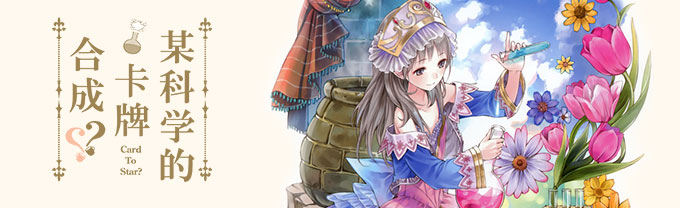
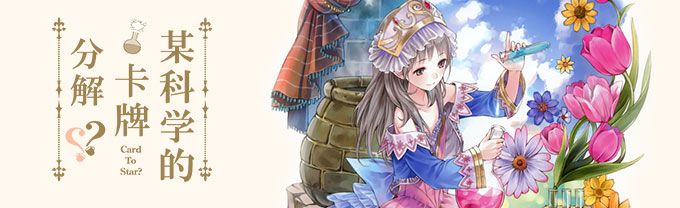
1.查看卡牌的时候会显示头像了。  2.【卡牌合成】更名为【卡牌分解】。  3.在动态中增加了点击直达【星星商店】、【卡牌分解】的功能。  4.在最新动态中能查看到挑战了哪位大佬。

Changed region(s): [[0.0926, 0.1731, 0.1544, 0.5481]]

diff --git a/card/card.js b/card/card.js
@@ -149,7 +149,7 @@ $(document).ready(function(e) {
 		var wmEmail_ = $(this).find('.wm_card_get_list_avatar_pic').attr('data-md5');
 		$('#wm_tiaozhan_btn').attr('data-md5',wmEmail_);
 		wmsearchCard(wmEmail_,false,true);
-		$('html, body').animate({scrollTop: $('#wmGetCard').offset().top+210}, 300);
+		$('html, body').animate({scrollTop: $('#wmGetCard').offset().top+200}, 300);
 	});
 	//幻灯片
 	var mySwiper = new Swiper ('.wm_banner_body .swiper-container', {
@@ -432,7 +432,7 @@ $(document).ready(function(e) {
 			openCardMixWindow();
 		}
 	});
-	//合成列表页面生成
+	//分解列表页面生成
 	var wmcardMixAllInfoArr = [];
 	var wmcardDatabase = null;
 	var wmcardMixNowLength = 0;//已经展示了多少
@@ -461,7 +461,7 @@ $(document).ready(function(e) {
 			wmCardMixCardDatabase(showModWindow);
 		}
 	};
-	//显示合成卡牌
+	//显示分解卡牌
 	function wmCardMixListCardShow(){
 		var wmpageLength = 0;
 		for(wmcardMixNowLength;wmcardMixNowLength<wmcardMixAllInfoArr.length;wmcardMixNowLength++){
@@ -507,10 +507,10 @@ $(document).ready(function(e) {
 					wmcardMixWindowIndex = layer.open({
 						type: 1,
 						maxWidth:'100%',
-						title:'卡牌合成',
+						title:'卡牌分解',
 						zIndex:1002,
 						content:$('#wmCardMixListBody'),
-						btn: ['合成','全部合成','关闭'], //按钮
+						btn: ['分解','全部分解','关闭'], //按钮
 						btn1 :function(index){
 							var wmMixcardSendCard = [];
 							var wmMixcardSendCardEl = $('.wm_mix_card_img_item.card_selected');
@@ -519,7 +519,7 @@ $(document).ready(function(e) {
 								wmMixcardSendCard.push(mixcardID);
 							}
 							if(wmMixcardSendCard.length<=0){
-								layer.alert('请选择要合成的卡牌！');
+								layer.alert('请选择要分解的卡牌！');
 							}else{
 								wmMixcardSendData = wmCalcMixcard(wmMixcardSendCard);
 								wmCheckMixCard(wmMixcardSendData[2],wmMixcardSendData[0],wmMixcardSendData[1],false);
@@ -542,21 +542,21 @@ $(document).ready(function(e) {
 			dataType: 'json'
 		});
 	}
-	//二次确认卡牌是否合成
+	//二次确认卡牌是否分解
 	function wmCheckMixCard(star,cardID,cardCount,isAll){
 		var wmMixText = '';
 		if(isAll){
 			wmMixText = '全部';
 		}
-		layer.confirm('确定要合成'+wmMixText+'卡牌吗？合成后所选卡牌将会减少相应数量，并预计会获得'+star+'颗星星。', {
-			btn: ['合成','取消'] //按钮
+		layer.confirm('确定要分解'+wmMixText+'卡牌吗？分解后所选卡牌将会减少相应数量，并预计会获得'+star+'颗星星。', {
+			btn: ['分解','取消'] //按钮
 		  }, function(index){
 			wmMixCardPassword(cardID,cardCount);
 			layer.close(index);
 		  }
 		);
 	}
-	//弹出合成卡牌密码确认
+	//弹出分解卡牌密码确认
 	function wmMixCardPassword(cardID,cardCount){
 		$('#wmGetPassword').attr('data-email',$('#wmCardMixInput').val());
 		var wmSendCardID = cardID.join(',');
@@ -592,7 +592,7 @@ $(document).ready(function(e) {
 						success: function(result){
 							$('#wmCardLoading').stop(true, false).fadeOut(100);
 							if(result.code=="202"){
-								layer.confirm('成功兑换了'+result.useCardNumbe+'张卡牌，获得了'+result.addStar+'颗星星！您现在剩余星星数量有'+result.starCount+'颗了！', {
+								layer.confirm('成功分解了'+result.useCardNumbe+'张卡牌，获得了'+result.addStar+'颗星星！您现在剩余星星数量有'+result.starCount+'颗了！', {
 									btn: ['确定']
 									,btn1: function(index){
 										wmMixSearchCard(index,false);
@@ -626,7 +626,7 @@ $(document).ready(function(e) {
 			}
 		);
 	};
-	//计算提交的合成卡牌
+	//计算提交的分解卡牌
 	function wmCalcMixcard(wmMixcardSendCard){
 		console.log(wmMixcardSendCard);
 		var wmGetStar = 0;
@@ -654,7 +654,7 @@ $(document).ready(function(e) {
 		wmMixcardSendData = [wmMixcardSendDataCardID,wmMixcardSendDataCardCount,wmGetStar]
 		return wmMixcardSendData
 	};
-	//星星合成用到的卡牌查询
+	//星星分解用到的卡牌查询
 	function wmMixSearchCard(alertWindowIndex,showModWindow){
 		var wmMixCardemail = $('#wmCardMixInput').val();
 		var reg = new RegExp("^[a-z0-9]+([._\\-]*[a-z0-9])*@([a-z0-9]+[-a-z0-9]*[a-z0-9]+.){1,63}[a-z0-9]+$");
@@ -689,7 +689,7 @@ $(document).ready(function(e) {
 			});
 		}
 	}
-	// 星星合成
+	// 星星分解
 	function openCardMixWindow(){
 		layer.open({
 			type: 1,
@@ -721,20 +721,20 @@ $(document).ready(function(e) {
 			success: function(result){
 				console.log(result);
 				if(result.code=="202"){
-					$('#wm_mylist_title').text('您的当前信息');
+					$('#wm_mylist_title').html('<img class="wm_title_info_avatar_pic" src="https://cdn.v2ex.com/gravatar/'+emailmd5_+'?s=100&amp;d=mm&amp;r=g&amp;d=robohash" width="45" height="45"><br />您的当前信息');
 					if(addrsearch){
 						var usernick = GetQueryString('usernick');
 						if(usernick){
 							usernick = urldecode(usernick);
 							$('.wm_tiaozhan_body').show();
-							$('#wm_mylist_title').text(usernick + '的当前信息');
+							$('#wm_mylist_title').html('<img class="wm_title_info_avatar_pic" src="https://cdn.v2ex.com/gravatar/'+emailmd5_+'?s=100&amp;d=mm&amp;r=g&amp;d=robohash" width="45" height="45"><br />' + usernick + '的当前信息');
 						}else{
 							$('.wm_tiaozhan_body').hide();
-							$('#wm_mylist_title').text('您的当前信息');
+							$('#wm_mylist_title').html('<img class="wm_title_info_avatar_pic" src="https://cdn.v2ex.com/gravatar/'+emailmd5_+'?s=100&amp;d=mm&amp;r=g&amp;d=robohash" width="45" height="45"><br />您的当前信息');
 						}
 					}else if(newListSearch){
 						$('.wm_tiaozhan_body').show();
-						$('#wm_mylist_title').text('TA的当前信息');
+						$('#wm_mylist_title').html('<img class="wm_title_info_avatar_pic" src="https://cdn.v2ex.com/gravatar/'+emailmd5_+'?s=100&amp;d=mm&amp;r=g&amp;d=robohash" width="45" height="45"><br />TA的当前信息');
 					}else{
 						$('.wm_tiaozhan_body').hide();
 					}
@@ -896,15 +896,20 @@ $(document).ready(function(e) {
 						wmSixStarCardShake = ' wm_six_star_card_shake'
 					}
 				}
-				listHtml = '<div class="wm_card_get_list_item"><div class="wm_card_get_list_avatar"><img class="wm_card_get_list_avatar_pic" src="https://cdn.v2ex.com/gravatar/'+wmNewListInfoArr[i].mailMD5+'?s=100&d=mm&r=g&d=robohash" width="45" height="45" title="查看TA的卡牌" data-md5="'+wmNewListInfoArr[i].mailMD5+'" /></div><div class="wm_card_get_list_comment">我使用了'+wmNewListInfoArr[i].useStar+'颗星星抽中了出自作品《'+wmNewListInfoArr[i].cardInfo.title+'》的'+wmNewListInfoArr[i].cardInfo.star+'星卡<a href="'+wmCardImgPath+wmNewListInfoArr[i].cardID+'.jpg" class="wm_card_get_list_card_link'+wmSixStarCardShake+'" target="_blank">'+wmNewListInfoArr[i].cardInfo.name+'</a>。'+getText+'</div></div>'
+				listHtml = '<div class="wm_card_get_list_item"><div class="wm_card_get_list_avatar"><img class="wm_card_get_list_avatar_pic" src="https://cdn.v2ex.com/gravatar/'+wmNewListInfoArr[i].mailMD5+'?s=100&d=mm&r=g&d=robohash" width="45" height="45" title="查看TA的卡牌" data-md5="'+wmNewListInfoArr[i].mailMD5+'" /></div><div class="wm_card_get_list_comment">我在<a href="javascript:;" class="wm_getlist_link wm_goto_starshop">星星商店</a>使用了'+wmNewListInfoArr[i].useStar+'颗星星抽中了出自作品《'+wmNewListInfoArr[i].cardInfo.title+'》的'+wmNewListInfoArr[i].cardInfo.star+'星卡<a href="'+wmCardImgPath+wmNewListInfoArr[i].cardID+'.jpg" class="wm_card_get_list_card_link'+wmSixStarCardShake+'" target="_blank">'+wmNewListInfoArr[i].cardInfo.name+'</a>。'+getText+'</div></div>'
 			}else if(wmNewListInfoArr[i].massageType=='battle'){
+				// 兼容老版本是否有对方的邮箱MD5
+				var wmDalaoHtml = '大佬';
+				if(wmNewListInfoArr[i].EMmailMD5 !== undefined){
+					wmDalaoHtml = '<a href="javascript:;" title="查看TA的卡牌" data-md5="'+wmNewListInfoArr[i].EMmailMD5+'" class="wm_getlist_link wm_goto_dalao_info">大佬</a>';
+				}
 				if(wmNewListInfoArr[i].Win == 0){
-					listHtml = '<div class="wm_card_get_list_item"><div class="wm_card_get_list_avatar"><img class="wm_card_get_list_avatar_pic" src="https://cdn.v2ex.com/gravatar/'+wmNewListInfoArr[i].mailMD5+'?s=100&d=mm&r=g&d=robohash" width="45" height="45" title="查看TA的卡牌" data-md5="'+wmNewListInfoArr[i].mailMD5+'" /></div><div class="wm_card_get_list_comment">我成功挑战了一名大佬，并从中获得了'+wmNewListInfoArr[i].MyGetScore+'点竞技点与'+wmNewListInfoArr[i].GETEXP+'点经验值。</div></div>';
+					listHtml = '<div class="wm_card_get_list_item"><div class="wm_card_get_list_avatar"><img class="wm_card_get_list_avatar_pic" src="https://cdn.v2ex.com/gravatar/'+wmNewListInfoArr[i].mailMD5+'?s=100&d=mm&r=g&d=robohash" width="45" height="45" title="查看TA的卡牌" data-md5="'+wmNewListInfoArr[i].mailMD5+'" /></div><div class="wm_card_get_list_comment">我成功挑战了一名'+wmDalaoHtml+'，并从中获得了'+wmNewListInfoArr[i].MyGetScore+'点竞技点与'+wmNewListInfoArr[i].GETEXP+'点经验值。抱歉，竞技点我收走啦！</div></div>';
 				}else if(wmNewListInfoArr[i].Win == 1){
-					listHtml = '<div class="wm_card_get_list_item"><div class="wm_card_get_list_avatar"><img class="wm_card_get_list_avatar_pic" src="https://cdn.v2ex.com/gravatar/'+wmNewListInfoArr[i].mailMD5+'?s=100&d=mm&r=g&d=robohash" width="45" height="45" title="查看TA的卡牌" data-md5="'+wmNewListInfoArr[i].mailMD5+'" /></div><div class="wm_card_get_list_comment">我在对战中败给了一名大佬，失去了'+Math.abs(wmNewListInfoArr[i].MyGetScore)+'点竞技点，获得了'+wmNewListInfoArr[i].GETEXP+'点经验值。</div></div>';
+					listHtml = '<div class="wm_card_get_list_item"><div class="wm_card_get_list_avatar"><img class="wm_card_get_list_avatar_pic" src="https://cdn.v2ex.com/gravatar/'+wmNewListInfoArr[i].mailMD5+'?s=100&d=mm&r=g&d=robohash" width="45" height="45" title="查看TA的卡牌" data-md5="'+wmNewListInfoArr[i].mailMD5+'" /></div><div class="wm_card_get_list_comment">我在对战中败给了一名'+wmDalaoHtml+'，失去了'+Math.abs(wmNewListInfoArr[i].MyGetScore)+'点竞技点，获得了'+wmNewListInfoArr[i].GETEXP+'点经验值。我的竞技点……</div></div>';
 				}
 			}else if(wmNewListInfoArr[i].massageType=='mixcard'){
-				listHtml = '<div class="wm_card_get_list_item"><div class="wm_card_get_list_avatar"><img class="wm_card_get_list_avatar_pic" src="https://cdn.v2ex.com/gravatar/'+wmNewListInfoArr[i].mailMD5+'?s=100&d=mm&r=g&d=robohash" width="45" height="45" title="查看TA的卡牌" data-md5="'+wmNewListInfoArr[i].mailMD5+'" /></div><div class="wm_card_get_list_comment">我通过卡牌合成，用'+wmNewListInfoArr[i].useCardNumbe+'张卡牌搓出了'+wmNewListInfoArr[i].addStar+'颗星星！虽然有点可惜，但是我想这些星星能让我得到更好的卡牌！</div></div>';
+				listHtml = '<div class="wm_card_get_list_item"><div class="wm_card_get_list_avatar"><img class="wm_card_get_list_avatar_pic" src="https://cdn.v2ex.com/gravatar/'+wmNewListInfoArr[i].mailMD5+'?s=100&d=mm&r=g&d=robohash" width="45" height="45" title="查看TA的卡牌" data-md5="'+wmNewListInfoArr[i].mailMD5+'" /></div><div class="wm_card_get_list_comment">我通过<a href="javascript:;" class="wm_getlist_link wm_goto_mixcard">卡牌分解</a>，用'+wmNewListInfoArr[i].useCardNumbe+'张卡牌分解出了'+wmNewListInfoArr[i].addStar+'颗星星！虽然有点可惜，但是我相信这些星星能让我得到更好的卡牌！</div></div>';
 			}
 			if(listHtml!=''){
 				$('#wmCardGetList').append(listHtml);
@@ -920,6 +925,21 @@ $(document).ready(function(e) {
 		}
 		$('#wm_get_list_more_btn').removeAttr('disabled');
 	}
+	// 点击去卡牌分解动态
+	$('#wmCardGetList').on('click','.wm_goto_mixcard',function(){
+		$('#wmBannerBody .swiper-slide[data-type="cardMix"]').eq(0).trigger('click');
+	});
+	// 点击星星商店动态
+	$('#wmCardGetList').on('click','.wm_goto_starshop',function(){
+		$('#wmBannerBody .swiper-slide[data-type="starShop"]').eq(0).trigger('click');
+	});
+	// 点击动态查看大佬
+	$('#wmCardGetList').on('click','.wm_goto_dalao_info',function(){
+		var addrmd5 = $(this).attr('data-md5');
+		$('#wm_tiaozhan_btn').attr('data-md5',addrmd5);
+		wmsearchCard(addrmd5,false,true);
+		$('html, body').animate({scrollTop: $('#wmGetCard').offset().top+200}, 300);
+	});
 	//获取最新抽卡动态
 	function getNewCardList(){
 		var getTimeStamp = new Date().getTime();
@@ -997,7 +1017,7 @@ $(document).ready(function(e) {
 		var addrmd5 = $(this).attr('data-md5');
 		$('#wm_tiaozhan_btn').attr('data-md5',addrmd5);
 		wmsearchCard(addrmd5,false,true);
-		$('html, body').animate({scrollTop: $('#wmGetCard').offset().top+210}, 300);
+		$('html, body').animate({scrollTop: $('#wmGetCard').offset().top+200}, 300);
 	})
 	//获取最新抽卡动态
 	getNewCardList();

diff --git a/card/card.css b/card/card.css
@@ -294,7 +294,7 @@ input.wm_card_email:-webkit-autofill {
 	background: #f8f8f8;
 	cursor: pointer;
 }
-.wm_card_get_list_body a.wm_card_get_list_card_link{
+.wm_card_get_list_body a.wm_card_get_list_card_link,.wm_card_get_list_body a.wm_getlist_link{
 	color: #ff5364;
 	padding: 0 3px;
 }
@@ -571,7 +571,7 @@ input.wm_card_email:-webkit-autofill {
 		width: 6px;
 		height: 6px;
 	}
-	/* 卡牌合成 */
+	/* 卡牌分解 */
 	.wm_card_cardmix_cardlist_body{
 		text-align: center;
 		display: none;
@@ -746,6 +746,14 @@ input.wm_card_email:-webkit-autofill {
 	.wm_card_rank_point{
 		padding-right: 20px;
     font-size: 14px;
+	}
+	/* 详情头像 */
+	.wm_title_info_avatar_pic{
+		background-color: #f8f8f8;
+    border-radius: 5px;
+		margin-bottom: 5px;
+		width: 45px;
+		height: 45px;
 	}
 	@media only screen and (max-width: 650px) {
 		.wm_card_rank_box{

diff --git a/wm_card.php b/wm_card.php
@@ -9,10 +9,10 @@ Author URL: http://wikimoe.com
 */
 !defined('EMLOG_ROOT') && exit('access deined!');
 function wm_card_loghook() {
-	$wm_card_jsfile = BLOG_URL.'content/plugins/wm_card/card/card.js?ver=0.42';
+	$wm_card_jsfile = BLOG_URL.'content/plugins/wm_card/card/card.js?ver=0.43';
 	$wm_card_layerjsfile = BLOG_URL.'content/plugins/wm_card/layer/layer.js';
 	$wm_card_layercssfile = BLOG_URL.'content/plugins/wm_card/layer/theme/default/layer.css';
-	$wm_card_cssfile = BLOG_URL.'content/plugins/wm_card/card/card.css?ver=0.42';
+	$wm_card_cssfile = BLOG_URL.'content/plugins/wm_card/card/card.css?ver=0.43';
 	$wm_card_pluginpath = BLOG_URL.'content/plugins/wm_card/';
 	$wmCard_set=unserialize(ltrim(file_get_contents(dirname(__FILE__).'/wm_card.com.php'),'<?php die; ?>'));
 	$wm_card_img_path = empty($wmCard_set['cdn'])?$wm_card_pluginpath.'card/img/':$wmCard_set['cdn'];
@@ -49,8 +49,8 @@ function wm_card_loghook() {
 			</div>
 			<div class="wm_card_cardmix_cardlist_body" id="wmCardMixListBody">
 				<div class="wm_card_cardmix_cardlist_title">
-					<h3>请选择多出的卡牌来合成星星</h3>
-					<p>Tip:系统已经自动预留一张卡牌 全部合成不影响收集率</p>
+					<h3>请选择多出的卡牌来分解成星星</h3>
+					<p>Tip:系统已经自动预留一张卡牌 全部分解不影响收集率</p>
 				</div>
 				<div class="wm_card_cardmix_cardlist_box" id="wmCardMixListBox"></div>
 				<div class="wm_mixcardmore_body">

diff --git a/cardGame.php b/cardGame.php
@@ -496,7 +496,7 @@ function gameStart(){
 			setLevel($levelSet,$GetEXP,$MyemailAddr);
 			
 			//写入或更新最动态列表json
-			$gameJsonData = array('mailMD5'=>$MyemailAddr,'MyGetScore'=>$MyGetScore_post,'GETEXP'=>$MyGetScore_,'Win'=>$IsWin,'massageType'=>'battle');
+			$gameJsonData = array('mailMD5'=>$MyemailAddr,'EMmailMD5'=>$EMemailAddr,'MyGetScore'=>$MyGetScore_post,'GETEXP'=>$MyGetScore_,'Win'=>$IsWin,'massageType'=>'battle');
 			wmWriteJson($gameJsonData);
 			$data = json_encode(array('code'=>"202",'cardData'=>$cardData,'EMCard'=>$EMCard,'MyCard'=>$MyCard,'MyStartStat'=>array($MyHP_,$MyGong_,$MyFang_,$MySu),'EMStartStat'=>array($EMHP_,$EMGong_,$EMFang_,$EMSu),'roundData'=>$roundData,'Win'=>$IsWin,'MyGetScore'=>$MyGetScore_post,'MyScoreOrigin'=>$MyScoreOrigin,'EMGetScore'=>$EMGetScore,'EMScoreOrigin'=>$EMScoreOrigin,'GETEXP'=>$MyGetScore_,'EMLevelOrigin'=>$EMLevelOrigin,'MyLevelOrigin'=>$MyLevelOrigin,'MyEXPOrigin'=>$MyEXPOrigin,'MyLevel'=>$levelSet));
 		}
